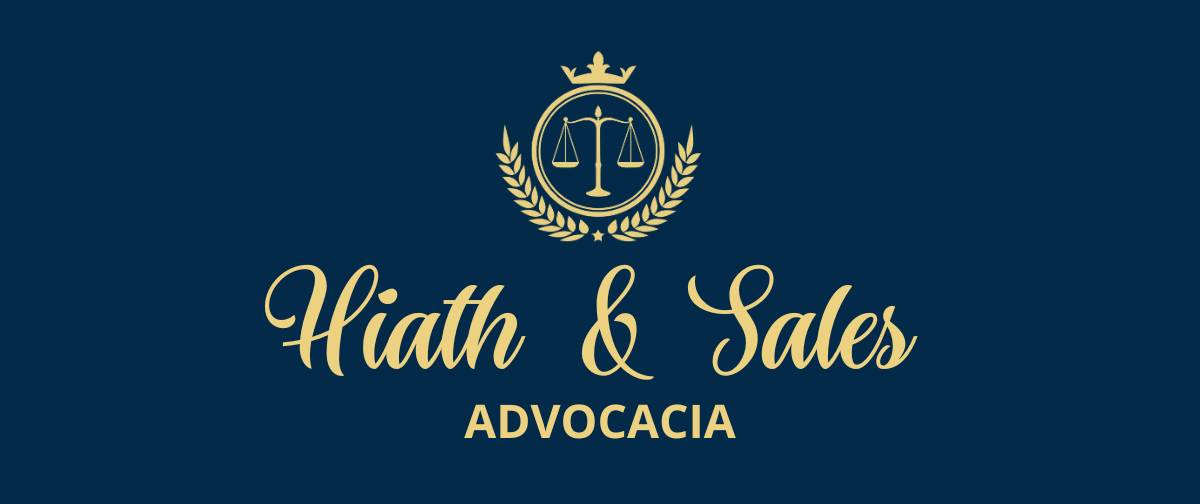
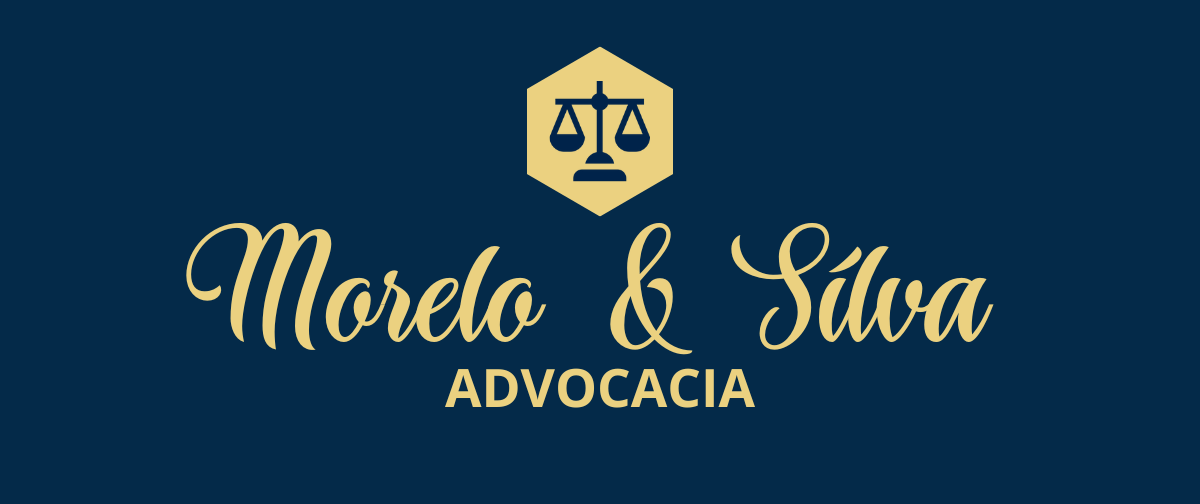
update model branch

Changed region(s): [[0.1542, 0.0893, 0.8325, 0.8929]]

diff --git a/src/app/page.tsx b/src/app/page.tsx
@@ -11,18 +11,18 @@ export default function Home() {
 
   const professionals = {
     maria: {
-      photo: '/photos/maria-312x312.webp',
-      name: "Maria José",
-      description: "Com 5 anos de experiência no campo jurídico, ela atua com dedicação e transparência para garantir que seus clientes recebam o melhor suporte legal.",
-      whatsAppNumber: '5521974694530',
+      photo: '/photos/maria-photo-312x208.webp',
+      name: "Maria Sílva",
+      description: "Com 5 anos de experiência no campo jurídico, Dra. Maria atenta para cada caso com atenção e empatia.",
+      whatsAppNumber: '#',
       specializations: ["Família", "Cívil"],
       experience: 5
     },
      adriana: {
-      photo: '/photos/adriana-312x312.webp',
-      name: "Adriana Hiath",
-      description: "Possuindo 8 anos de experiência na área jurídica, ela atua com compromisso e clareza para oferecer o melhor suporte legal a seus clientes.",
-      whatsAppNumber: '5521973910618',
+      photo: '/photos/adriana-photo-312x208.webp',
+      name: "Adriana Morelo",
+      description: "Possuindo 4 anos de experiência na área jurídica, ela age com paciência e ética, oferecendo o melhor atendimento aos seus clientes.",
+      whatsAppNumber: '#',
       specializations: ["Trabalhista", "Previdênciário"],
       experience: 8
     }
@@ -37,7 +37,7 @@ export default function Home() {
           <div className="flex flex-col items-start gap-8 max-w-150">
             <h1 className="text-white text-5xl max-md:text-4xl max-sm:text-3xl">Buscando apoio jurídico ou consultoria?</h1>
             <button className="shadow-[color:#EBD180]/50 shadow-lg py-2 px-6 rounded-md text-black font-bold text-xl bg-[#EBD180] hover:bg-[#e2c56f]">
-              <a href="https://wa.me/5521974694530" target="_blank">Clique e fale conosco</a>
+              <a href="https://wa.me/#" target="_blank">Clique e fale conosco</a>
             </button>
           </div>
         </PageContainer>
@@ -60,13 +60,13 @@ export default function Home() {
           <main>
             <div className="flex flex-col m-auto mt-8 gap-5 w-[70vw]">
               <div className="flex flex-col w-full">
-                <h3 className="text-secondary-color text-2xl mb-2">Dra. Maria José</h3>
-                <p className="text-xl"> Especializada em na vara de família, ela oferece atendimento personalizado, analisando cada caso com atenção e compromisso. Graduada em Direito pela Estácio de Sá, sua missão transformar situações complexas em soluções práticas, sempre defendendo os interesses de seus clientes com ética e excelência. </p>
+                <h3 className="text-secondary-color text-2xl mb-2">Dra. Maria Sílva</h3>
+                <p className="text-xl"> A Dra. Maria é uma advogada dedicada, reconhecida por sua atuação ética e comprometida com a justiça. Possui ampla experiência em assessoria jurídica e busca sempre soluções eficazes e humanizadas para seus clientes.</p>
               </div>
               <div className="flex flex-col ">
-                <h3 className="text-secondary-color text-2xl mb-2">Dra. Adriana Hiath</h3>
+                <h3 className="text-secondary-color text-2xl mb-2">Dra. Adriana Morelo</h3>
                 <p className="text-xl">
-                Especialista em direito trabalhista, ela se destaca pelo atendimento humanizado, analisando cada caso com cuidado e dedicação. Graduada em Direito pela Universidade Estácio de Sá, seu propósito é tornar questões jurídicas complexas em soluções eficazes, sempre pautada na ética, responsabilidade e excelência profissional. </p>
+               A Dra. Adriana é uma profissional experiente e atenta aos detalhes, com forte atuação em defesa dos direitos de seus clientes. Sua abordagem estratégica e empática garante excelência em cada caso que conduz.</p>
               </div>
             </div>
           </main> 

diff --git a/src/app/layout.tsx b/src/app/layout.tsx
@@ -20,12 +20,12 @@ export const metadata: Metadata = {
   title: "Hiath & Sales Adv",
   description: "Escritório de Advocacia - advogados de família e trabalhista",
   icons: {
-    icon: 'https://advogados-landing-page-static.onrender.com/logo.png'
+    icon: 'https://advogados-landing-page.onrender.com/logo.png'
   },
   openGraph: {
     images: [
       {
-        url: 'https://advogados-landing-page-static.onrender.com/website-preview-1200x504.png',
+        url: 'https://advogados-landing-page.onrender.com/website-preview-1200x504.png',
         width:1200,
         height:630
       }
